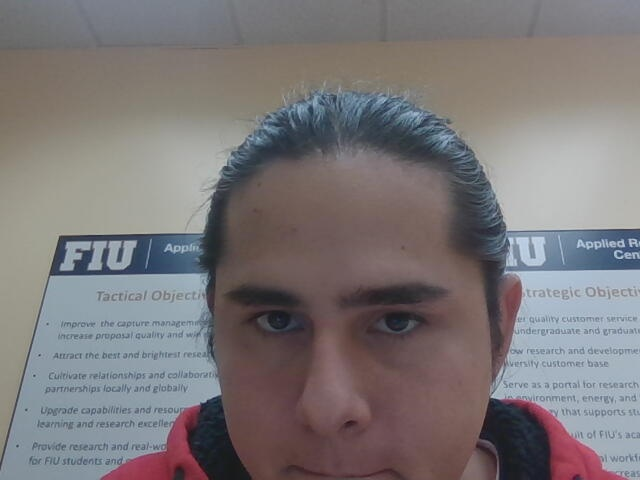
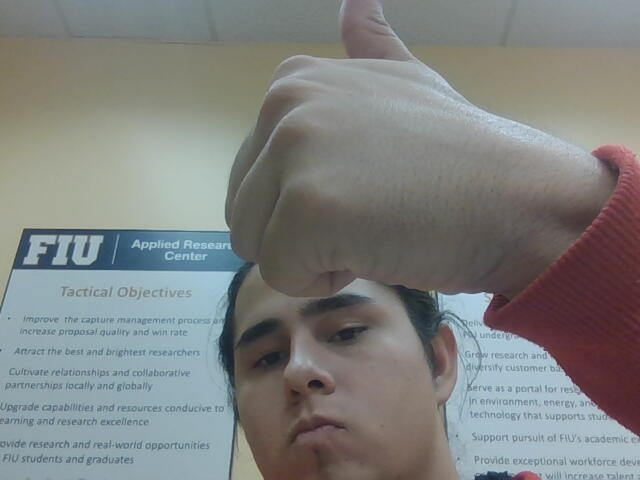
16th Commit - Standby period
Added a Standby period where we can look at the camera and align the part we wish to scan. P is still pressed to initialize the picture taking.

diff --git a/3D_Scan/Array_Scan.py b/3D_Scan/Array_Scan.py
@@ -40,7 +40,7 @@ basename = 'pic'
 filetype = '.jpg'
 
 controlrec = 1			# Record images? 	Yes = 1, No = 0
-controlcalc = 1			# Calculate images?	Yes = 1, No = 0
+controlcalc = 0			# Calculate images?	Yes = 1, No = 0
 
 # Function Setup -------------------------------------------------
 
@@ -79,14 +79,36 @@ def cleardata():
 		except Exception as e:
 			print(e)
 
-# Capture Loop ---------------------------------------------------------
+
+
+
+
+# Setup Loop ---------------------------------------------------------
  
+cap = cv2.VideoCapture(0)
+
+while True:
+	# Exit if any key is pressed
+	key = cv2.waitKey(1) & 0xFF
+	if key == ord("p"):
+		cap.release()
+		break
+	
+	okay, image = cap.read()
+	
+	if okay == False:
+		continue
+	cv2.imshow('Setup Object in Frame', image)
+
+# Capture Loop ---------------------------------------------------------
+
 if (controlrec == 1):
 
 	#GPIO.setmode(GPIO.BCM)           # Set's GPIO pins to BCM GPIO numbering
 	#GPIO.setup(INPUT_PIN, GPIO.IN)   # Set our input pin to be an input
 
-	cleardata()						  # Deletes Pictures
+	cleardata()			
+				  # Deletes Pictures
 
 	for scan in range(0,scan_max):
 			
@@ -107,7 +129,7 @@ if (controlrec == 1):
 		## clear the stream in preparation for the next frame
 		#rawCapture.truncate(0)
 		
-		# Working PC capture mechanism
+		# Working PC image capture mechanism
 		cap = cv2.VideoCapture(0)
 		okay, frame = cap.read()
 		cap.release()
@@ -120,6 +142,7 @@ if (controlrec == 1):
 		cv2.imshow(picname, frame)
 		time.sleep(1)
 		
+		# Hold image utill P key pressed
 		while True:
 			key = cv2.waitKey(1) & 0xFF
 			if key == ord("p"):
